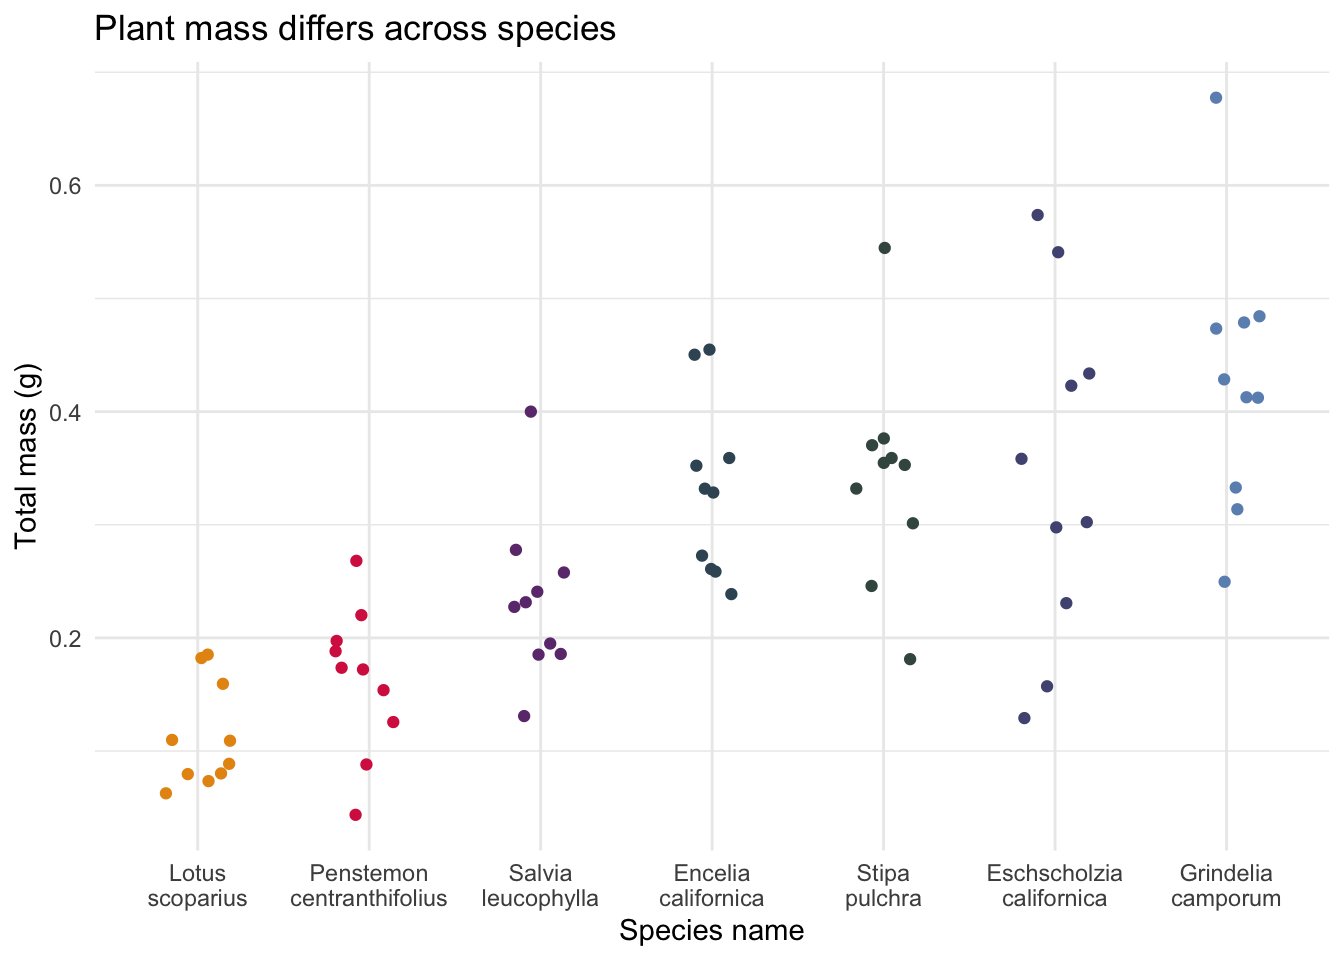
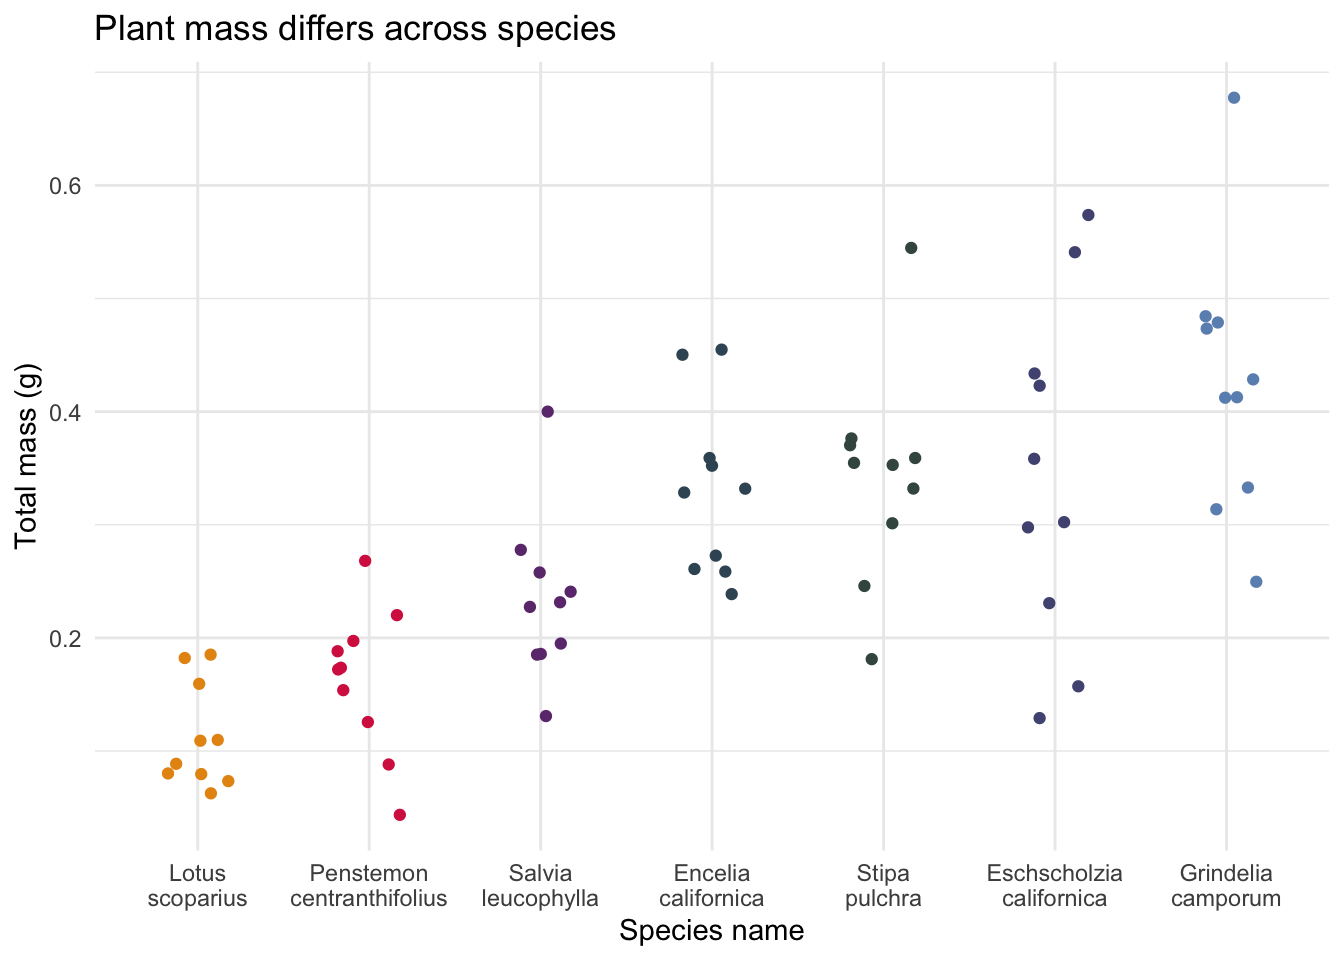
fitting and selecting models, generating predictions, making figure

diff --git a/code/workshop-code.html b/code/workshop-code.html
@@ -72,6 +72,35 @@ pre > code.sourceCode > span > a:first-child::before { text-decoration: underlin
 <link href="workshop-code_files/libs/bootstrap/bootstrap-icons.css" rel="stylesheet">
 <link href="workshop-code_files/libs/bootstrap/bootstrap-81267100e462c21b3d6c0d5bf76a3417.min.css" rel="stylesheet" append-hash="true" id="quarto-bootstrap" data-mode="light">
 
+  <script src="https://cdnjs.cloudflare.com/polyfill/v3/polyfill.min.js?features=es6"></script>
+  <script src="https://cdn.jsdelivr.net/npm/mathjax@3/es5/tex-chtml-full.js" type="text/javascript"></script>
+
+<script type="text/javascript">
+const typesetMath = (el) => {
+  if (window.MathJax) {
+    // MathJax Typeset
+    window.MathJax.typeset([el]);
+  } else if (window.katex) {
+    // KaTeX Render
+    var mathElements = el.getElementsByClassName("math");
+    var macros = [];
+    for (var i = 0; i < mathElements.length; i++) {
+      var texText = mathElements[i].firstChild;
+      if (mathElements[i].tagName == "SPAN") {
+        window.katex.render(texText.data, mathElements[i], {
+          displayMode: mathElements[i].classList.contains('display'),
+          throwOnError: false,
+          macros: macros,
+          fleqn: false
+        });
+      }
+    }
+  }
+}
+window.Quarto = {
+  typesetMath
+};
+</script>
 
 </head>
 
@@ -302,16 +331,16 @@ pre > code.sourceCode > span > a:first-child::before { text-decoration: underlin
 <pre><code># A tibble: 10 × 4
    species_name               water_treatment    sla total_g
    &lt;fct&gt;                      &lt;fct&gt;            &lt;dbl&gt;   &lt;dbl&gt;
- 1 Stipa pulchra              Drought stressed 146.   0.246 
+ 1 Lotus scoparius            Drought stressed  91.4  0.0626
  2 Penstemon centranthifolius Drought stressed 161.   0.174 
- 3 Eschscholzia californica   Drought stressed 107.   0.302 
- 4 Lotus scoparius            Drought stressed 107.   0.159 
- 5 Lotus scoparius            Well watered     106.   0.185 
- 6 Encelia californica        Well watered     170.   0.455 
- 7 Eschscholzia californica   Well watered     116.   0.423 
- 8 Encelia californica        Drought stressed 171.   0.259 
- 9 Grindelia camporum         Drought stressed 164.   0.428 
-10 Lotus scoparius            Drought stressed  90.9  0.0796</code></pre>
+ 3 Grindelia camporum         Drought stressed 164.   0.428 
+ 4 Lotus scoparius            Drought stressed  90.9  0.0796
+ 5 Stipa pulchra              Well watered     163.   0.370 
+ 6 Grindelia camporum         Drought stressed 167.   0.314 
+ 7 Lotus scoparius            Well watered     137.   0.109 
+ 8 Penstemon centranthifolius Drought stressed 179.   0.0436
+ 9 Grindelia camporum         Well watered     191.   0.479 
+10 Penstemon centranthifolius Drought stressed 175.   0.188 </code></pre>
 </div>
 </div>
 </section>
@@ -496,56 +525,156 @@ pre > code.sourceCode > span > a:first-child::before { text-decoration: underlin
 <section id="model-fitting" class="level2">
 <h2 class="anchored" data-anchor-id="model-fitting">Model fitting</h2>
 <div class="cell">
-<div class="sourceCode cell-code" id="cb11"><pre class="sourceCode r code-with-copy"><code class="sourceCode r"><span id="cb11-1"><a href="#cb11-1" aria-hidden="true" tabindex="-1"></a><span class="co"># model 0: null model</span></span>
-<span id="cb11-2"><a href="#cb11-2" aria-hidden="true" tabindex="-1"></a></span>
-<span id="cb11-3"><a href="#cb11-3" aria-hidden="true" tabindex="-1"></a></span>
-<span id="cb11-4"><a href="#cb11-4" aria-hidden="true" tabindex="-1"></a><span class="co"># model 1: all predictors</span></span>
-<span id="cb11-5"><a href="#cb11-5" aria-hidden="true" tabindex="-1"></a></span>
+<div class="sourceCode cell-code" id="cb11"><pre class="sourceCode r code-with-copy"><code class="sourceCode r"><span id="cb11-1"><a href="#cb11-1" aria-hidden="true" tabindex="-1"></a><span class="co"># model 0: null model, no predictors</span></span>
+<span id="cb11-2"><a href="#cb11-2" aria-hidden="true" tabindex="-1"></a>model0 <span class="ot">&lt;-</span> <span class="fu">lm</span>(</span>
+<span id="cb11-3"><a href="#cb11-3" aria-hidden="true" tabindex="-1"></a>  total_g <span class="sc">~</span> <span class="dv">1</span>,</span>
+<span id="cb11-4"><a href="#cb11-4" aria-hidden="true" tabindex="-1"></a>  <span class="at">data =</span> drought_exp_clean</span>
+<span id="cb11-5"><a href="#cb11-5" aria-hidden="true" tabindex="-1"></a>)</span>
 <span id="cb11-6"><a href="#cb11-6" aria-hidden="true" tabindex="-1"></a></span>
-<span id="cb11-7"><a href="#cb11-7" aria-hidden="true" tabindex="-1"></a><span class="co"># model 2: SLA and water treatment</span></span>
-<span id="cb11-8"><a href="#cb11-8" aria-hidden="true" tabindex="-1"></a></span>
-<span id="cb11-9"><a href="#cb11-9" aria-hidden="true" tabindex="-1"></a></span>
-<span id="cb11-10"><a href="#cb11-10" aria-hidden="true" tabindex="-1"></a><span class="co"># model 3: SLA and species</span></span>
-<span id="cb11-11"><a href="#cb11-11" aria-hidden="true" tabindex="-1"></a></span>
+<span id="cb11-7"><a href="#cb11-7" aria-hidden="true" tabindex="-1"></a><span class="co"># model 1: all predictors</span></span>
+<span id="cb11-8"><a href="#cb11-8" aria-hidden="true" tabindex="-1"></a>model1 <span class="ot">&lt;-</span> <span class="fu">lm</span>(</span>
+<span id="cb11-9"><a href="#cb11-9" aria-hidden="true" tabindex="-1"></a>  total_g <span class="sc">~</span> sla <span class="sc">+</span> water_treatment <span class="sc">+</span> species_name,</span>
+<span id="cb11-10"><a href="#cb11-10" aria-hidden="true" tabindex="-1"></a>  <span class="at">data =</span> drought_exp_clean</span>
+<span id="cb11-11"><a href="#cb11-11" aria-hidden="true" tabindex="-1"></a>)</span>
 <span id="cb11-12"><a href="#cb11-12" aria-hidden="true" tabindex="-1"></a></span>
-<span id="cb11-13"><a href="#cb11-13" aria-hidden="true" tabindex="-1"></a><span class="co"># model 4: water treatment and species</span></span>
-<span id="cb11-14"><a href="#cb11-14" aria-hidden="true" tabindex="-1"></a></span>
-<span id="cb11-15"><a href="#cb11-15" aria-hidden="true" tabindex="-1"></a></span>
-<span id="cb11-16"><a href="#cb11-16" aria-hidden="true" tabindex="-1"></a><span class="co"># model 5: SLA</span></span>
-<span id="cb11-17"><a href="#cb11-17" aria-hidden="true" tabindex="-1"></a></span>
+<span id="cb11-13"><a href="#cb11-13" aria-hidden="true" tabindex="-1"></a><span class="co"># model 2: SLA and water treatment</span></span>
+<span id="cb11-14"><a href="#cb11-14" aria-hidden="true" tabindex="-1"></a>model2 <span class="ot">&lt;-</span> <span class="fu">lm</span>(</span>
+<span id="cb11-15"><a href="#cb11-15" aria-hidden="true" tabindex="-1"></a>  total_g <span class="sc">~</span> sla <span class="sc">+</span> water_treatment,</span>
+<span id="cb11-16"><a href="#cb11-16" aria-hidden="true" tabindex="-1"></a>  <span class="at">data =</span> drought_exp_clean</span>
+<span id="cb11-17"><a href="#cb11-17" aria-hidden="true" tabindex="-1"></a>)</span>
 <span id="cb11-18"><a href="#cb11-18" aria-hidden="true" tabindex="-1"></a></span>
-<span id="cb11-19"><a href="#cb11-19" aria-hidden="true" tabindex="-1"></a><span class="co"># model 6: water treatment</span></span>
-<span id="cb11-20"><a href="#cb11-20" aria-hidden="true" tabindex="-1"></a></span>
-<span id="cb11-21"><a href="#cb11-21" aria-hidden="true" tabindex="-1"></a></span>
-<span id="cb11-22"><a href="#cb11-22" aria-hidden="true" tabindex="-1"></a><span class="co"># model 7: species</span></span></code><button title="Copy to Clipboard" class="code-copy-button"><i class="bi"></i></button></pre></div>
+<span id="cb11-19"><a href="#cb11-19" aria-hidden="true" tabindex="-1"></a><span class="co"># model 3: SLA and species</span></span>
+<span id="cb11-20"><a href="#cb11-20" aria-hidden="true" tabindex="-1"></a>model3 <span class="ot">&lt;-</span> <span class="fu">lm</span>(</span>
+<span id="cb11-21"><a href="#cb11-21" aria-hidden="true" tabindex="-1"></a>  total_g <span class="sc">~</span> sla <span class="sc">+</span> species_name,</span>
+<span id="cb11-22"><a href="#cb11-22" aria-hidden="true" tabindex="-1"></a>  <span class="at">data =</span> drought_exp_clean</span>
+<span id="cb11-23"><a href="#cb11-23" aria-hidden="true" tabindex="-1"></a>)</span>
+<span id="cb11-24"><a href="#cb11-24" aria-hidden="true" tabindex="-1"></a></span>
+<span id="cb11-25"><a href="#cb11-25" aria-hidden="true" tabindex="-1"></a><span class="co"># model 4: water treatment and species</span></span>
+<span id="cb11-26"><a href="#cb11-26" aria-hidden="true" tabindex="-1"></a>model4 <span class="ot">&lt;-</span> <span class="fu">lm</span>(</span>
+<span id="cb11-27"><a href="#cb11-27" aria-hidden="true" tabindex="-1"></a>  total_g <span class="sc">~</span> water_treatment <span class="sc">+</span> species_name,</span>
+<span id="cb11-28"><a href="#cb11-28" aria-hidden="true" tabindex="-1"></a>  <span class="at">data =</span> drought_exp_clean</span>
+<span id="cb11-29"><a href="#cb11-29" aria-hidden="true" tabindex="-1"></a>)</span>
+<span id="cb11-30"><a href="#cb11-30" aria-hidden="true" tabindex="-1"></a></span>
+<span id="cb11-31"><a href="#cb11-31" aria-hidden="true" tabindex="-1"></a><span class="co"># model 5: SLA</span></span>
+<span id="cb11-32"><a href="#cb11-32" aria-hidden="true" tabindex="-1"></a>model5 <span class="ot">&lt;-</span> <span class="fu">lm</span>(</span>
+<span id="cb11-33"><a href="#cb11-33" aria-hidden="true" tabindex="-1"></a>  total_g <span class="sc">~</span> sla,</span>
+<span id="cb11-34"><a href="#cb11-34" aria-hidden="true" tabindex="-1"></a>  <span class="at">data =</span> drought_exp_clean</span>
+<span id="cb11-35"><a href="#cb11-35" aria-hidden="true" tabindex="-1"></a>)</span>
+<span id="cb11-36"><a href="#cb11-36" aria-hidden="true" tabindex="-1"></a></span>
+<span id="cb11-37"><a href="#cb11-37" aria-hidden="true" tabindex="-1"></a><span class="co"># model 6: water treatment</span></span>
+<span id="cb11-38"><a href="#cb11-38" aria-hidden="true" tabindex="-1"></a>model6 <span class="ot">&lt;-</span> <span class="fu">lm</span>(</span>
+<span id="cb11-39"><a href="#cb11-39" aria-hidden="true" tabindex="-1"></a>  total_g <span class="sc">~</span> water_treatment,</span>
+<span id="cb11-40"><a href="#cb11-40" aria-hidden="true" tabindex="-1"></a>  <span class="at">data =</span> drought_exp_clean</span>
+<span id="cb11-41"><a href="#cb11-41" aria-hidden="true" tabindex="-1"></a>)</span>
+<span id="cb11-42"><a href="#cb11-42" aria-hidden="true" tabindex="-1"></a></span>
+<span id="cb11-43"><a href="#cb11-43" aria-hidden="true" tabindex="-1"></a><span class="co"># model 7: species</span></span>
+<span id="cb11-44"><a href="#cb11-44" aria-hidden="true" tabindex="-1"></a>model7 <span class="ot">&lt;-</span> <span class="fu">lm</span>(</span>
+<span id="cb11-45"><a href="#cb11-45" aria-hidden="true" tabindex="-1"></a>  total_g <span class="sc">~</span> species_name,</span>
+<span id="cb11-46"><a href="#cb11-46" aria-hidden="true" tabindex="-1"></a>  <span class="at">data =</span> drought_exp_clean</span>
+<span id="cb11-47"><a href="#cb11-47" aria-hidden="true" tabindex="-1"></a>)</span></code><button title="Copy to Clipboard" class="code-copy-button"><i class="bi"></i></button></pre></div>
 </div>
 </section>
 <section id="model-selection" class="level2">
 <h2 class="anchored" data-anchor-id="model-selection">Model selection</h2>
 <p>Insert code to use the <code>AICc()</code> function to calculate the AIC for each model.</p>
 <p>Arrange by decreasing AIC.</p>
+<div class="cell">
+<div class="sourceCode cell-code" id="cb12"><pre class="sourceCode r code-with-copy"><code class="sourceCode r"><span id="cb12-1"><a href="#cb12-1" aria-hidden="true" tabindex="-1"></a><span class="fu">AICc</span>(</span>
+<span id="cb12-2"><a href="#cb12-2" aria-hidden="true" tabindex="-1"></a>  model0, </span>
+<span id="cb12-3"><a href="#cb12-3" aria-hidden="true" tabindex="-1"></a>  model1,</span>
+<span id="cb12-4"><a href="#cb12-4" aria-hidden="true" tabindex="-1"></a>  model2,</span>
+<span id="cb12-5"><a href="#cb12-5" aria-hidden="true" tabindex="-1"></a>  model3,</span>
+<span id="cb12-6"><a href="#cb12-6" aria-hidden="true" tabindex="-1"></a>  model4,</span>
+<span id="cb12-7"><a href="#cb12-7" aria-hidden="true" tabindex="-1"></a>  model5,</span>
+<span id="cb12-8"><a href="#cb12-8" aria-hidden="true" tabindex="-1"></a>  model6,</span>
+<span id="cb12-9"><a href="#cb12-9" aria-hidden="true" tabindex="-1"></a>  model7</span>
+<span id="cb12-10"><a href="#cb12-10" aria-hidden="true" tabindex="-1"></a>) <span class="sc">|&gt;</span> </span>
+<span id="cb12-11"><a href="#cb12-11" aria-hidden="true" tabindex="-1"></a>  <span class="fu">arrange</span>(AICc)</span></code><button title="Copy to Clipboard" class="code-copy-button"><i class="bi"></i></button></pre></div>
+<div class="cell-output cell-output-stdout">
+<pre><code>       df       AICc
+model4  9 -156.19595
+model1 10 -153.75361
+model3  9 -124.07569
+model7  8 -120.30191
+model2  4  -95.82521
+model5  3  -88.85180
+model6  3  -86.76661
+model0  2  -74.98036</code></pre>
+</div>
+</div>
+<p>The best model to describe variation in plant mass only includes water treatment and species.</p>
 </section>
 <section id="model-diagnostics" class="level2">
 <h2 class="anchored" data-anchor-id="model-diagnostics">Model diagnostics</h2>
 <p>Insert code to look at the diagnostic plots for the best model.</p>
+<div class="cell">
+<div class="sourceCode cell-code" id="cb14"><pre class="sourceCode r code-with-copy"><code class="sourceCode r"><span id="cb14-1"><a href="#cb14-1" aria-hidden="true" tabindex="-1"></a><span class="fu">par</span>(<span class="at">mfrow =</span> <span class="fu">c</span>(<span class="dv">2</span>,<span class="dv">2</span>)) <span class="co">#display plots in a 2x2 grid</span></span>
+<span id="cb14-2"><a href="#cb14-2" aria-hidden="true" tabindex="-1"></a><span class="fu">plot</span>(model4) <span class="co">#model to check diagnostics</span></span></code><button title="Copy to Clipboard" class="code-copy-button"><i class="bi"></i></button></pre></div>
+<div class="cell-output-display">
+<div>
+<figure class="figure">
+<p><img src="workshop-code_files/figure-html/checking%20diagnostics-1.png" class="img-fluid figure-img" width="672"></p>
+</figure>
+</div>
+</div>
+</div>
+<p>Diagnostic plots look good.</p>
+<p>Residuals (standing in for errors) look normally distributed based on QQ plot.</p>
+<p>Residuals look homoscedastic (have constant variance) based on Residuals vs Fitted plot and Scale-Location plot.</p>
+<p>No outliers influencing model estimates of coefficients</p>
 </section>
 <section id="summary" class="level2">
 <h2 class="anchored" data-anchor-id="summary">Summary</h2>
 <p>Insert code to display the summary for the best model.</p>
+<div class="cell">
+<div class="sourceCode cell-code" id="cb15"><pre class="sourceCode r code-with-copy"><code class="sourceCode r"><span id="cb15-1"><a href="#cb15-1" aria-hidden="true" tabindex="-1"></a><span class="fu">summary</span>(model4)</span></code><button title="Copy to Clipboard" class="code-copy-button"><i class="bi"></i></button></pre></div>
+<div class="cell-output cell-output-stdout">
+<pre><code>
+Call:
+lm(formula = total_g ~ water_treatment + species_name, data = drought_exp_clean)
+
+Residuals:
+      Min        1Q    Median        3Q       Max 
+-0.157087 -0.046953 -0.003733  0.041244  0.192657 
+
+Coefficients:
+                                       Estimate Std. Error t value Pr(&gt;|t|)    
+(Intercept)                             0.05455    0.02451   2.225  0.02973 *  
+water_treatmentWell watered             0.11695    0.01733   6.746 5.90e-09 ***
+species_namePenstemon centranthifolius  0.05003    0.03243   1.543  0.12799    
+species_nameSalvia leucophylla          0.12020    0.03243   3.706  0.00045 ***
+species_nameEncelia californica         0.21774    0.03243   6.714 6.70e-09 ***
+species_nameStipa pulchra               0.22881    0.03243   7.055 1.72e-09 ***
+species_nameEschscholzia californica    0.23164    0.03243   7.143 1.22e-09 ***
+species_nameGrindelia camporum          0.31335    0.03243   9.662 5.53e-14 ***
+---
+Signif. codes:  0 '***' 0.001 '**' 0.01 '*' 0.05 '.' 0.1 ' ' 1
+
+Residual standard error: 0.07252 on 62 degrees of freedom
+Multiple R-squared:  0.7535,    Adjusted R-squared:  0.7257 
+F-statistic: 27.08 on 7 and 62 DF,  p-value: &lt; 2.2e-16</code></pre>
+</div>
+</div>
 <p><strong>What are the reference levels?</strong></p>
+<p>Drought stressed is the reference level for water treatment, and Lotus scoparius is the reference level for species name. (this is the way the levels were set in fct_relevel)</p>
 <p><strong>What does the <code>(Intercept)</code> represent?</strong></p>
+<p>The intercept is the model prediction for plant mass for Lotus scoparius in the drought stressed treatment. The model predicts that Lotus scoparius mass in the drought stressed treatment will be 0.055 <span class="math inline">\(\pm\)</span> 0.025 (SE) g.</p>
 <p><strong>What does <code>water_treatmentWell watered</code> represent?</strong></p>
+<p>This is the model prediction for the difference in Lotus scoparius mass between the well watered and drought stressed treatments. The model predicts that this difference is 0.12 <span class="math inline">\(\pm\)</span> 0.017 g.</p>
 <p><strong>What does <code>species_namePenstemon centranthifolius</code> represent?</strong></p>
+<p>This is the model prediction for the difference between Penstemon centranthifolius in the well watered treatment and Lotus scoparius mass in the well watered treatment. The model predicts that this difference is 0.05 <span class="math inline">\(\pm\)</span> 0.03 g.</p>
 <p><strong>What does <code>species_nameEschscholzia californica</code> represent?</strong></p>
+<p>This is the model prediction for the difference between Eschscholzia californica mass in the well watered treatment and Lotus scoparius mass in the well watered treatment. The model predicts that this difference is 0.23 <span class="math inline">\(\pm\)</span> 0.03 g.</p>
 </section>
 <section id="stop-and-think-what-does-this-model-mean" class="level2">
 <h2 class="anchored" data-anchor-id="stop-and-think-what-does-this-model-mean">Stop and think: what does this model mean?</h2>
 <p><strong>What is the best model?</strong></p>
-<p>[insert your response here]</p>
+<p>The best model includes water treatment and species as predictors.</p>
 <p><strong>How much variation in the response (total mass, in grams) does this model explain?</strong></p>
-<p>[insert your response here]</p>
+<p>72.6% of the variation in plant mass can be explained by this model.</p>
 <p><strong>How do we interpret the effects of the predictors on the response variable (again, total mass in grams)?</strong></p>
-<p>[insert your response here]</p>
+<p>Treatment influences plant mass.</p>
+<p>Species influences plant mass.</p>
 </section>
 </section>
 <section id="model-predictions" class="level1">
@@ -553,10 +682,50 @@ pre > code.sourceCode > span > a:first-child::before { text-decoration: underlin
 <p>Insert code to generate model predictions for the best model.</p>
 <p>Rename the <code>x</code> column and <code>group</code> column to match the original data frame (<code>drought_exp_clean</code>).</p>
 <p>Look at the object before plotting.</p>
+<div class="cell">
+<div class="sourceCode cell-code" id="cb17"><pre class="sourceCode r code-with-copy"><code class="sourceCode r"><span id="cb17-1"><a href="#cb17-1" aria-hidden="true" tabindex="-1"></a>preds <span class="ot">&lt;-</span> <span class="fu">ggpredict</span>(</span>
+<span id="cb17-2"><a href="#cb17-2" aria-hidden="true" tabindex="-1"></a>  model4,</span>
+<span id="cb17-3"><a href="#cb17-3" aria-hidden="true" tabindex="-1"></a>  <span class="at">terms =</span> <span class="fu">c</span>(<span class="st">"water_treatment"</span>, <span class="st">"species_name"</span>)</span>
+<span id="cb17-4"><a href="#cb17-4" aria-hidden="true" tabindex="-1"></a>) <span class="sc">|&gt;</span> </span>
+<span id="cb17-5"><a href="#cb17-5" aria-hidden="true" tabindex="-1"></a>  <span class="fu">rename</span>(<span class="at">water_treatment =</span> x,</span>
+<span id="cb17-6"><a href="#cb17-6" aria-hidden="true" tabindex="-1"></a>         <span class="at">species_name =</span> group)</span></code><button title="Copy to Clipboard" class="code-copy-button"><i class="bi"></i></button></pre></div>
+</div>
 </section>
 <section id="final-figure" class="level1">
 <h1>5. Final figure</h1>
 <p>Create a clean, publication ready figure depicting predictions for the best model and the underlying data.</p>
+<div class="cell">
+<div class="sourceCode cell-code" id="cb18"><pre class="sourceCode r code-with-copy"><code class="sourceCode r"><span id="cb18-1"><a href="#cb18-1" aria-hidden="true" tabindex="-1"></a><span class="fu">ggplot</span>(<span class="at">data =</span> drought_exp_clean,</span>
+<span id="cb18-2"><a href="#cb18-2" aria-hidden="true" tabindex="-1"></a>       <span class="fu">aes</span>(<span class="at">x =</span> water_treatment,</span>
+<span id="cb18-3"><a href="#cb18-3" aria-hidden="true" tabindex="-1"></a>           <span class="at">y =</span> total_g,</span>
+<span id="cb18-4"><a href="#cb18-4" aria-hidden="true" tabindex="-1"></a>           <span class="at">color =</span> water_treatment)) <span class="sc">+</span></span>
+<span id="cb18-5"><a href="#cb18-5" aria-hidden="true" tabindex="-1"></a>  <span class="fu">geom_jitter</span>(<span class="at">height =</span> <span class="dv">0</span>,</span>
+<span id="cb18-6"><a href="#cb18-6" aria-hidden="true" tabindex="-1"></a>              <span class="at">width =</span> <span class="fl">0.2</span>,</span>
+<span id="cb18-7"><a href="#cb18-7" aria-hidden="true" tabindex="-1"></a>              <span class="at">alpha =</span> <span class="fl">0.4</span>,</span>
+<span id="cb18-8"><a href="#cb18-8" aria-hidden="true" tabindex="-1"></a>              <span class="at">shape =</span> <span class="dv">21</span>) <span class="sc">+</span></span>
+<span id="cb18-9"><a href="#cb18-9" aria-hidden="true" tabindex="-1"></a>  <span class="fu">geom_pointrange</span>(<span class="at">data =</span> preds,</span>
+<span id="cb18-10"><a href="#cb18-10" aria-hidden="true" tabindex="-1"></a>                  <span class="fu">aes</span>(<span class="at">x =</span> water_treatment,</span>
+<span id="cb18-11"><a href="#cb18-11" aria-hidden="true" tabindex="-1"></a>                      <span class="at">y =</span> predicted,</span>
+<span id="cb18-12"><a href="#cb18-12" aria-hidden="true" tabindex="-1"></a>                      <span class="at">ymin =</span> conf.low,</span>
+<span id="cb18-13"><a href="#cb18-13" aria-hidden="true" tabindex="-1"></a>                      <span class="at">ymax =</span> conf.high)) <span class="sc">+</span></span>
+<span id="cb18-14"><a href="#cb18-14" aria-hidden="true" tabindex="-1"></a>  <span class="fu">scale_color_manual</span>(<span class="at">values =</span> <span class="fu">c</span>(</span>
+<span id="cb18-15"><a href="#cb18-15" aria-hidden="true" tabindex="-1"></a>    <span class="st">"Drought stressed"</span> <span class="ot">=</span> ds_col,</span>
+<span id="cb18-16"><a href="#cb18-16" aria-hidden="true" tabindex="-1"></a>    <span class="st">"Well watered"</span> <span class="ot">=</span> ww_col</span>
+<span id="cb18-17"><a href="#cb18-17" aria-hidden="true" tabindex="-1"></a>  )) <span class="sc">+</span> </span>
+<span id="cb18-18"><a href="#cb18-18" aria-hidden="true" tabindex="-1"></a>  <span class="fu">scale_x_discrete</span>(<span class="at">labels =</span> <span class="fu">label_wrap</span>(<span class="dv">10</span>)) <span class="sc">+</span></span>
+<span id="cb18-19"><a href="#cb18-19" aria-hidden="true" tabindex="-1"></a>  <span class="fu">labs</span>(<span class="at">x =</span> <span class="st">"Water treatment"</span>,</span>
+<span id="cb18-20"><a href="#cb18-20" aria-hidden="true" tabindex="-1"></a>       <span class="at">y =</span> <span class="st">"Total mass (g)"</span>) <span class="sc">+</span></span>
+<span id="cb18-21"><a href="#cb18-21" aria-hidden="true" tabindex="-1"></a>  <span class="fu">theme</span>(<span class="at">legend.position =</span> <span class="st">"none"</span>) <span class="sc">+</span></span>
+<span id="cb18-22"><a href="#cb18-22" aria-hidden="true" tabindex="-1"></a>  <span class="fu">facet_wrap</span>(<span class="sc">~</span> species_name,</span>
+<span id="cb18-23"><a href="#cb18-23" aria-hidden="true" tabindex="-1"></a>             <span class="at">nrow =</span> <span class="dv">1</span>)</span></code><button title="Copy to Clipboard" class="code-copy-button"><i class="bi"></i></button></pre></div>
+<div class="cell-output-display">
+<div>
+<figure class="figure">
+<p><img src="workshop-code_files/figure-html/final%20figure-1.png" class="img-fluid figure-img" width="1152"></p>
+</figure>
+</div>
+</div>
+</div>
 </section>
 <section id="writing" class="level1">
 <h1>6. Writing</h1>
